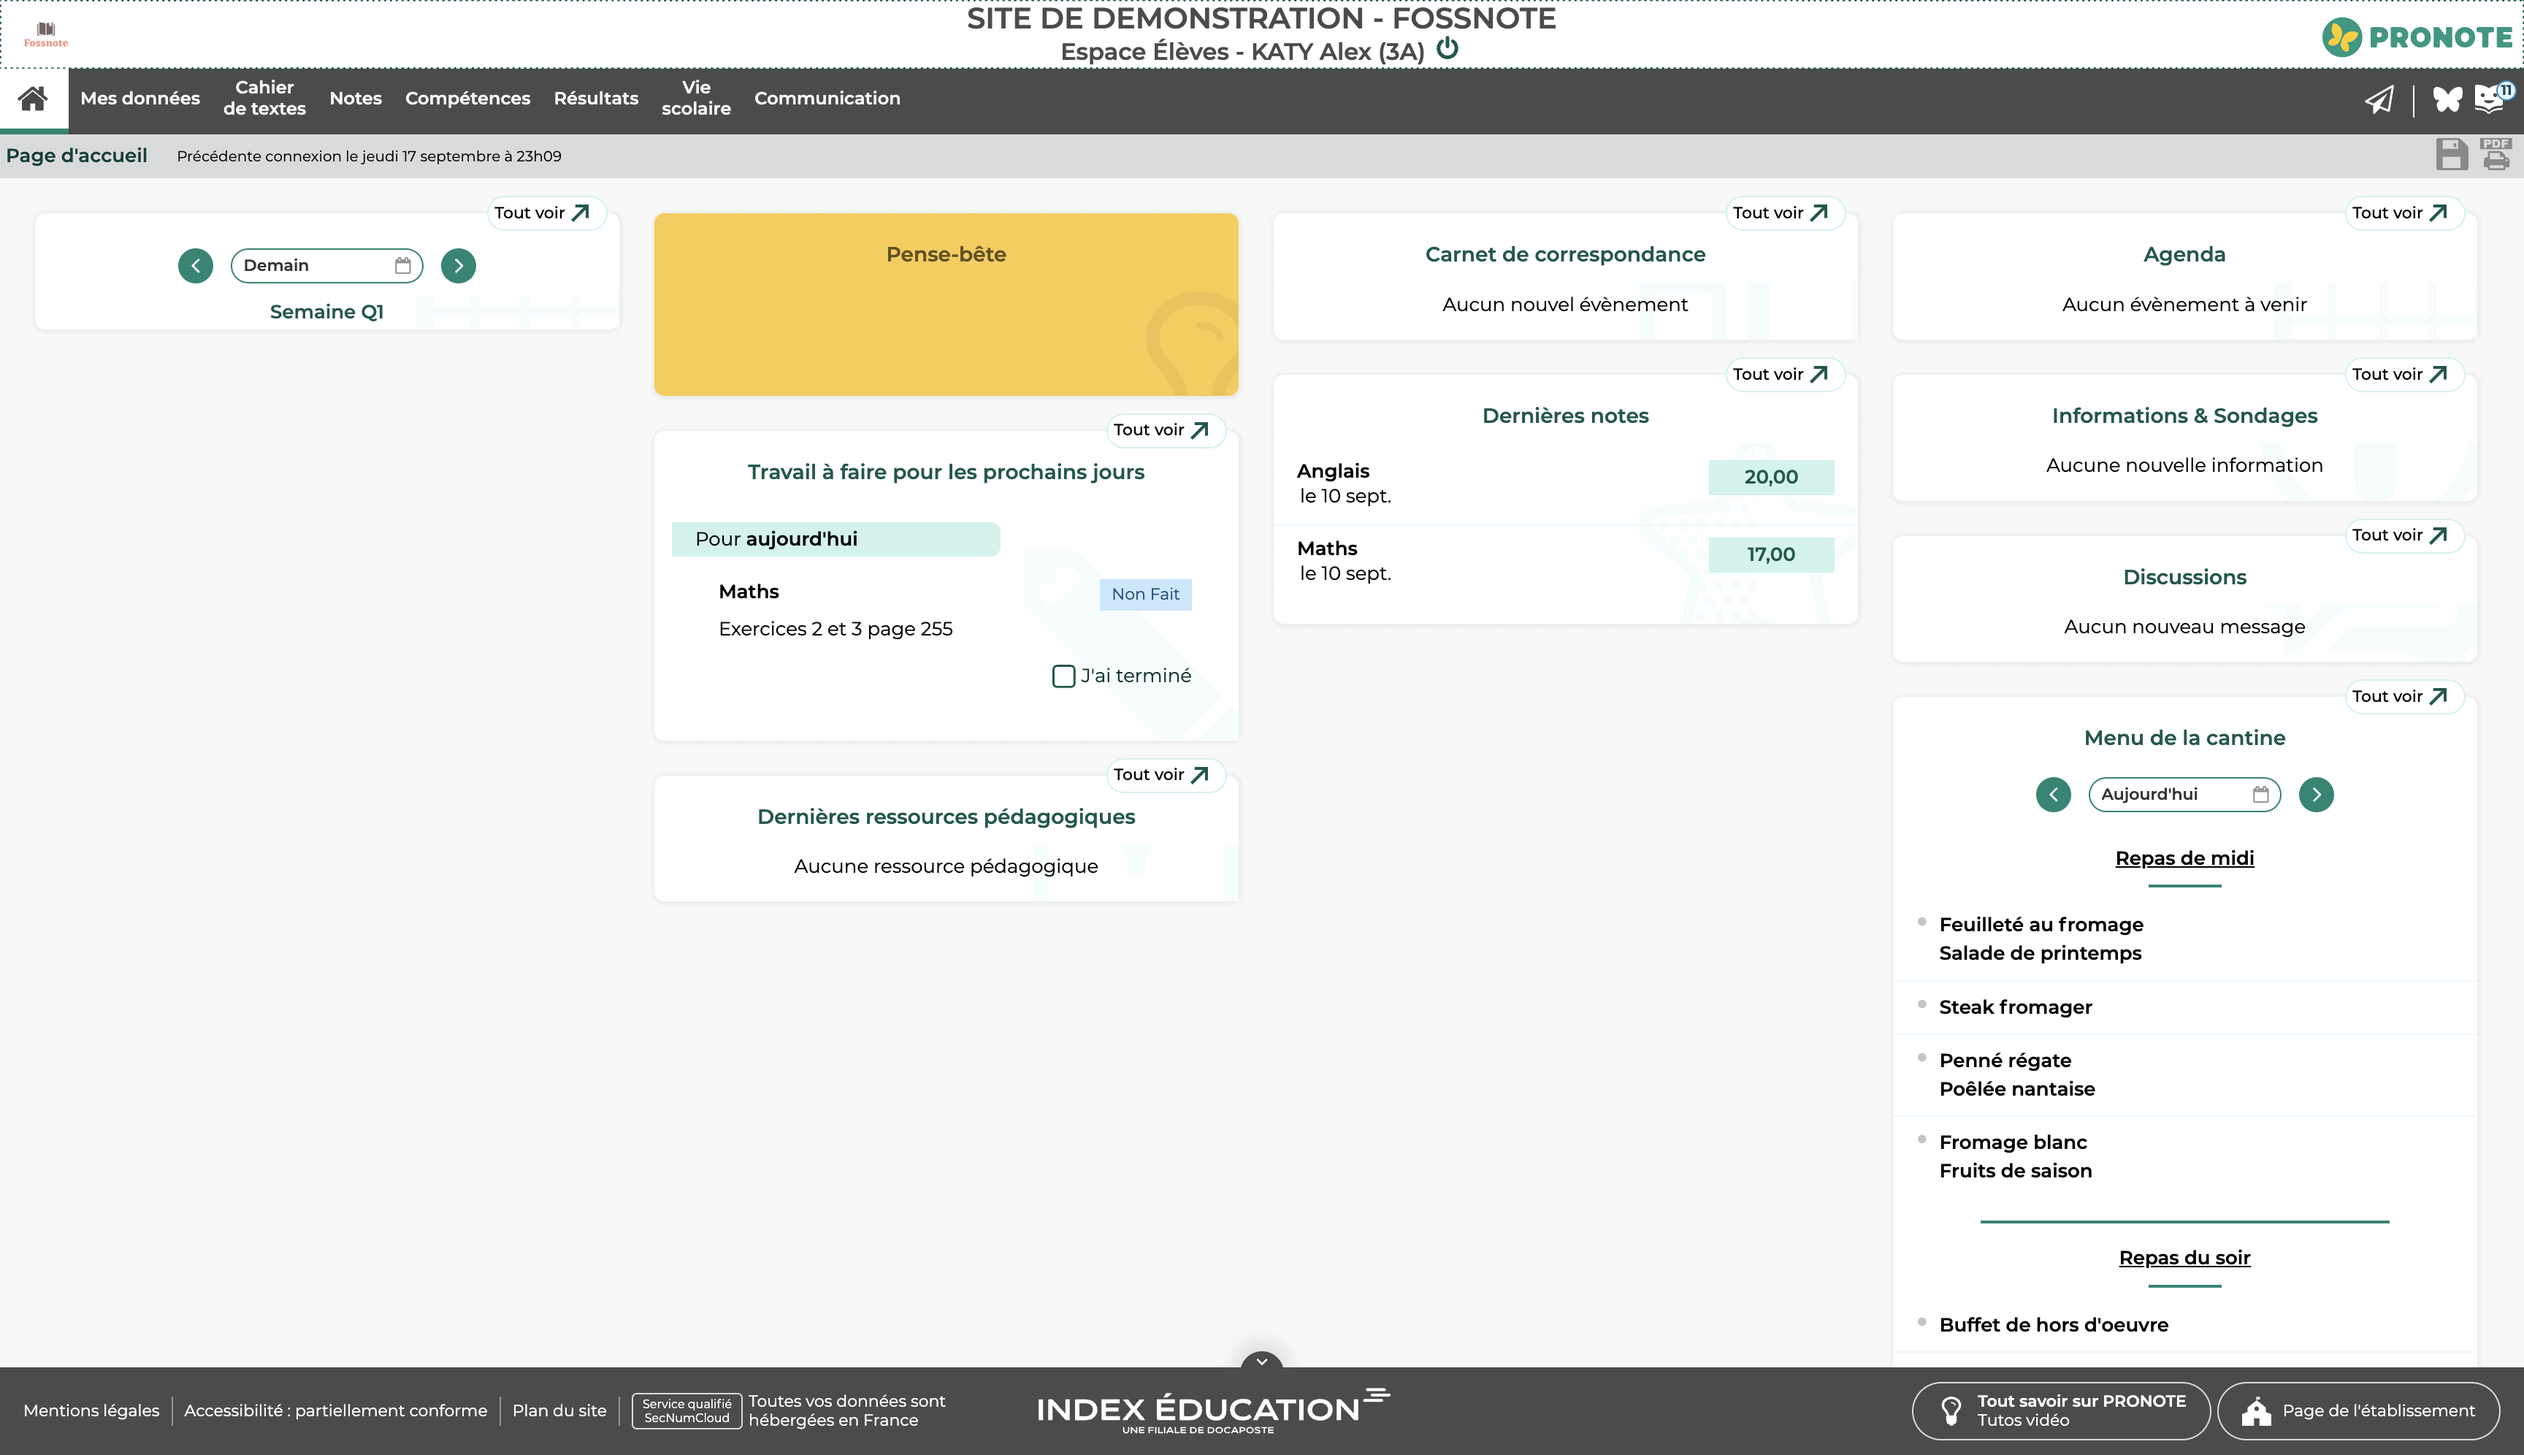
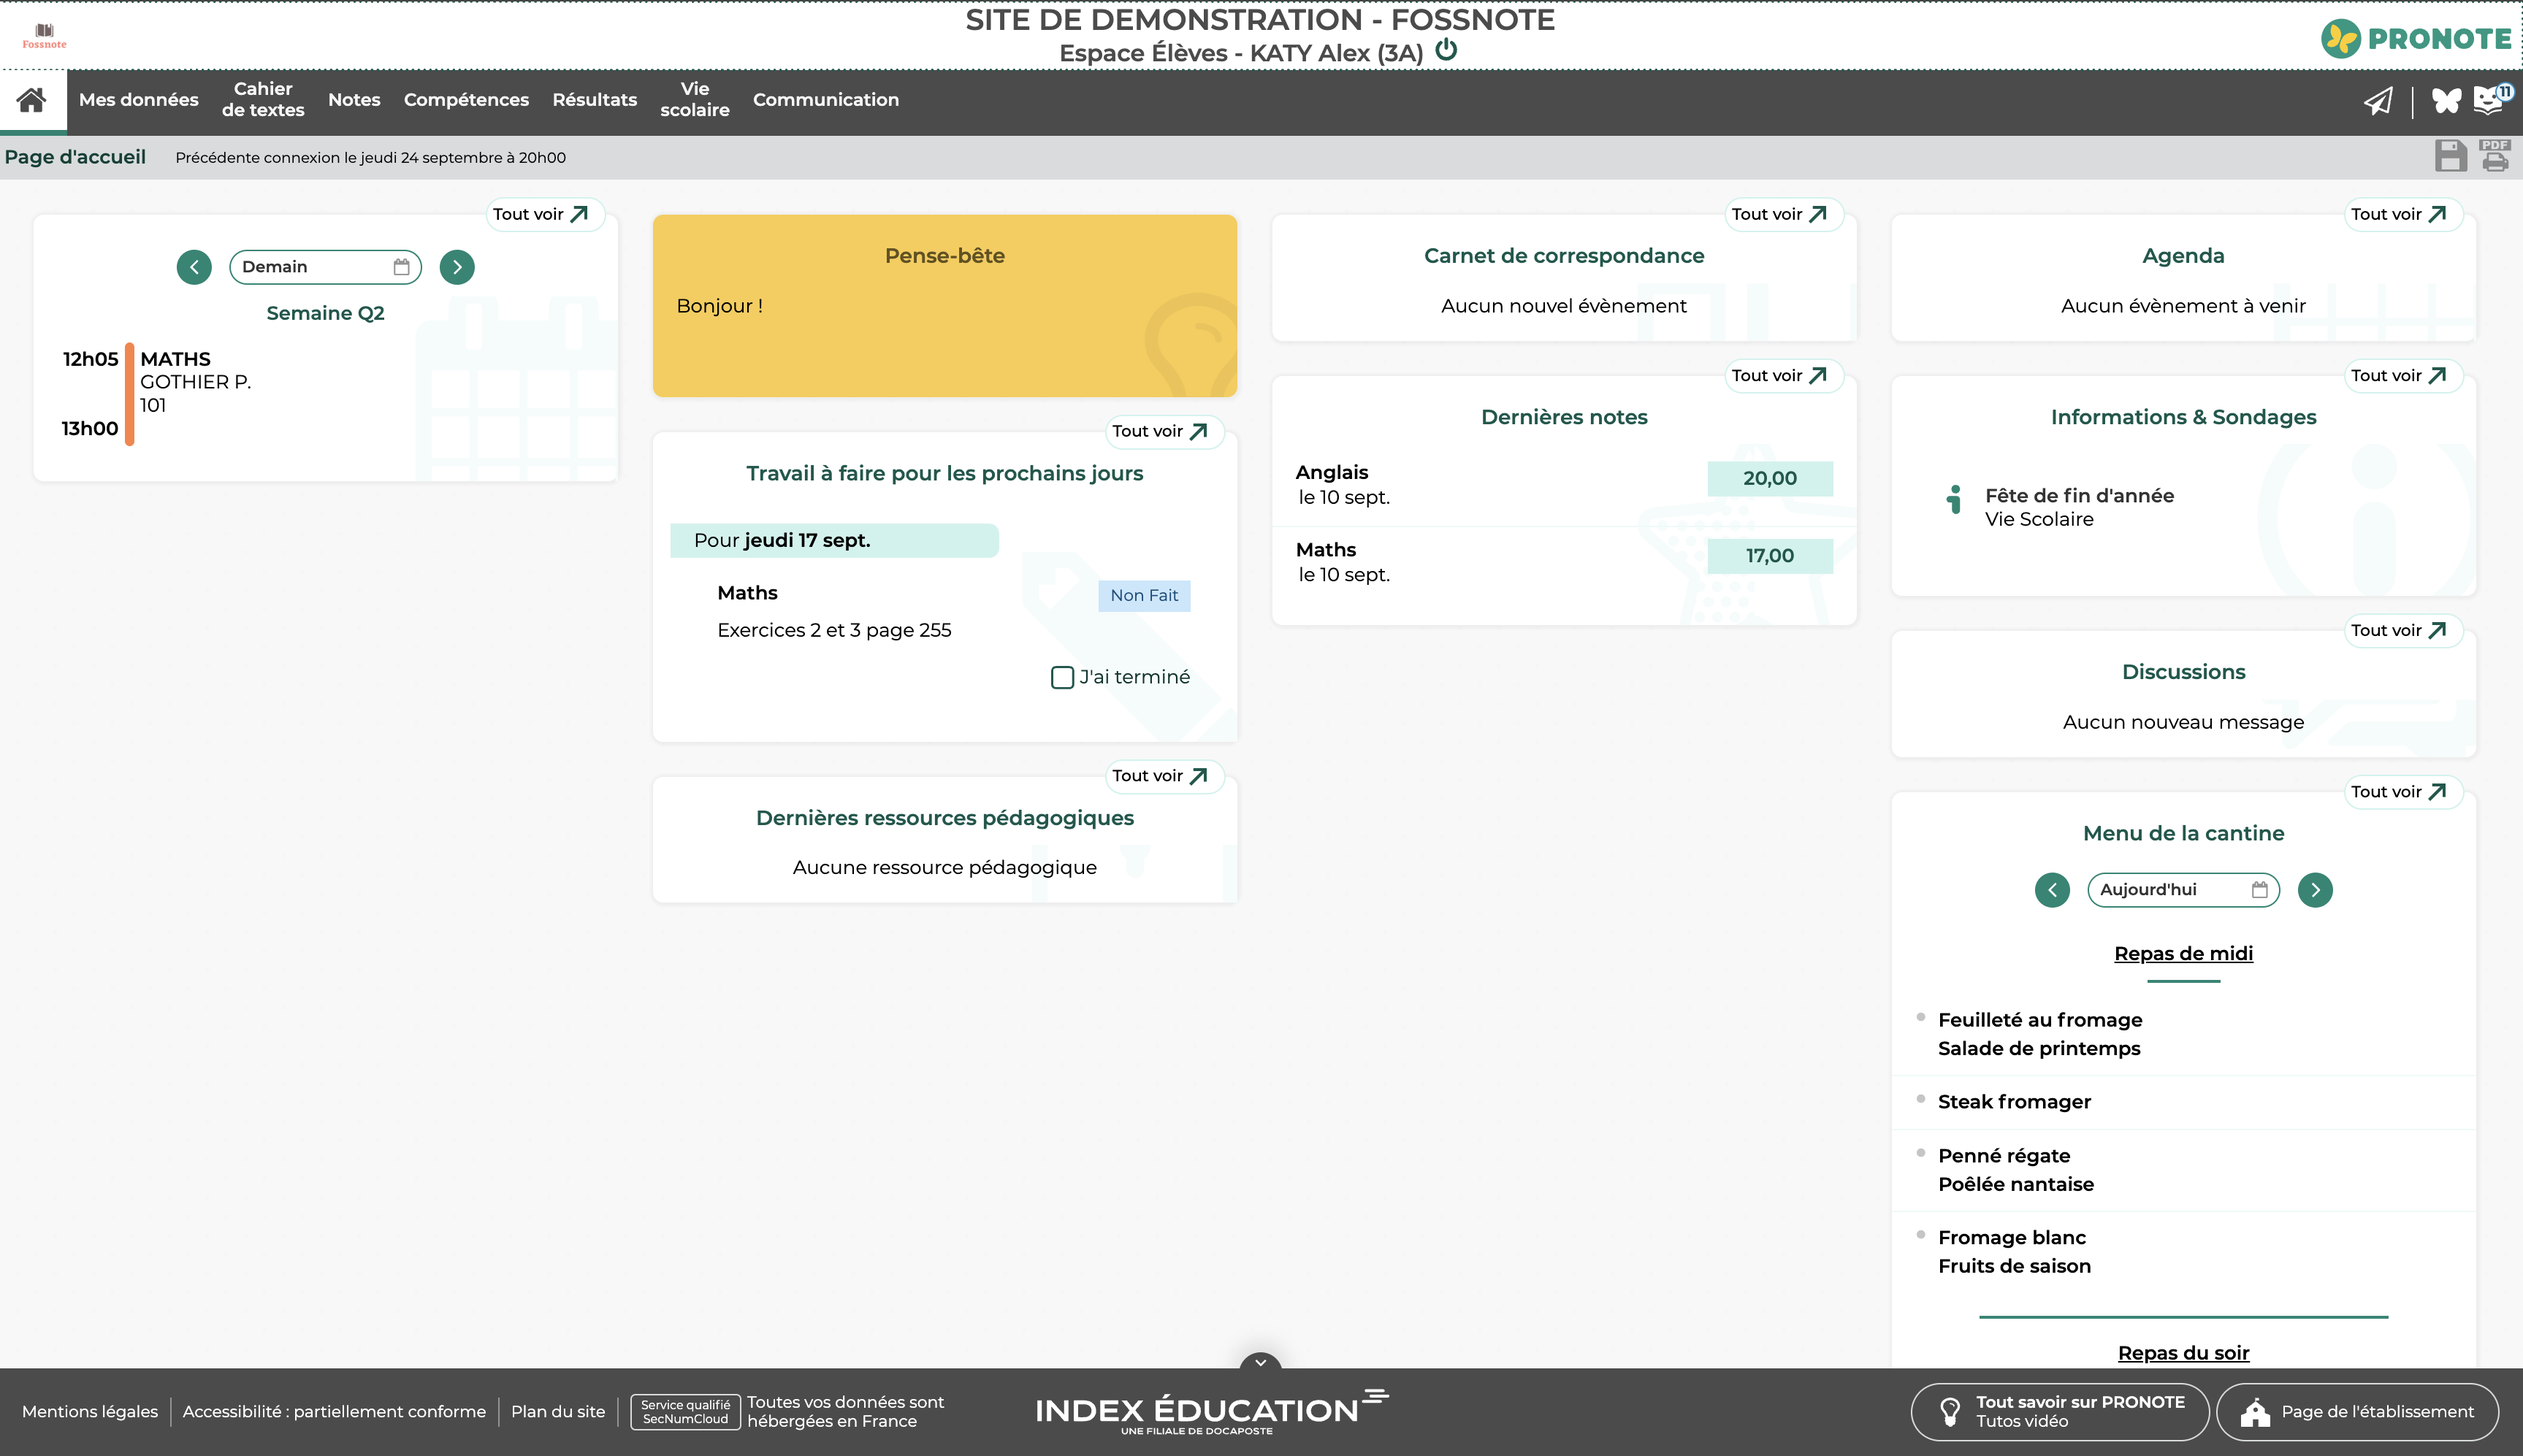
feat: news on homepage fix: update readme screenshots & features

diff --git a/src/rpc/fonctions/news.ts b/src/rpc/fonctions/news.ts
@@ -4,78 +4,82 @@ import { eq, desc } from "drizzle-orm";
 import type { RpcContext } from "../types";
 import newsTypes from "../../../config/constants/newsTypes.json";
 
+export const getNewsList = async (espaceId: number) => {
+    const allNews = await db.query.news.findMany({
+        where: (news, { or, eq, isNull }) => or(
+            isNull(news.targetUserType),
+            eq(news.targetUserType, espaceId)
+        ),
+        orderBy: [desc(news.createdAt)],
+    });
+
+    return allNews.map((n) => {
+        const categoryObj = (newsTypes as any[]).find(c => c.L === n.category) || newsTypes[3];
+        
+        // Format dates
+        const startDate = n.startDate ? n.startDate.split("-").reverse().join("/") : "01/01/2020";
+        const endDate = n.endDate ? n.endDate.split("-").reverse().join("/") : "31/12/2099";
+        
+        // Basic formatting for creation date
+        const d = new Date(n.createdAt);
+        const dateCreation = `${d.getDate().toString().padStart(2, '0')}/${(d.getMonth() + 1).toString().padStart(2, '0')}/${d.getFullYear()} ${d.getHours().toString().padStart(2, '0')}:${d.getMinutes().toString().padStart(2, '0')}:${d.getSeconds().toString().padStart(2, '0')}`;
+
+        return {
+            L: n.title,
+            N: `65#${n.id}`,
+            reponseAnonyme: false,
+            estInformation: n.isInformation,
+            estSondage: n.isSurvey,
+            nature: {
+                _T: 24,
+                V: {
+                    L: categoryObj?.L,
+                    N: categoryObj?.N,
+                },
+            },
+            lue: false, // Could track read status in a separate table later
+            dateDebut: { _T: 7, V: startDate },
+            dateFin: { _T: 7, V: endDate },
+            estProlonge: false, // Fake it
+            dateCreation: { _T: 7, V: dateCreation },
+            auteur: n.author || "Administration",
+            estAuteur: false,
+            elmauteur: {
+                _T: 24,
+                V: {
+                    L: n.author || "Administration",
+                    N: "106#admin",
+                    G: 34,
+                },
+            },
+            prenom: n.author ? n.author.split(' ')[0] : "Admin",
+            public: {
+                _T: 24,
+                V: {
+                    L: n.targetUserType === 1 ? "Professeurs" : n.targetUserType === 3 ? "Elèves" : "Tout le monde",
+                    N: "46#public",
+                    G: n.targetUserType ?? 4,
+                },
+            },
+            genrePublic: n.targetUserType ?? 4,
+            estPublic: true,
+            estPartage: false,
+            informationListeContenu: {
+                avecPJ: n.hasAttachments,
+                aToutRepondu: false,
+                avecCommandeVisuResultat: n.isSurvey,
+            },
+        };
+    });
+};
+
 export const handleNewsPage = async (body: any, ctx: RpcContext) => {
     const data = body?.donneesSec?.donnees || body?.dataSec?.data;
     const genre = data?.genreRequeteActualite;
 
     if (genre === 0) {
         // Return list of news
-        const allNews = await db.query.news.findMany({
-            where: (news, { or, eq, isNull }) => or(
-                isNull(news.targetUserType),
-                eq(news.targetUserType, ctx.espaceId)
-            ),
-            orderBy: [desc(news.createdAt)],
-        });
-
-        const listeActualites = allNews.map((n) => {
-            const categoryObj = (newsTypes as any[]).find(c => c.L === n.category) || newsTypes[3];
-            
-            // Format dates
-            const startDate = n.startDate ? n.startDate.split("-").reverse().join("/") : "01/01/2020";
-            const endDate = n.endDate ? n.endDate.split("-").reverse().join("/") : "31/12/2099";
-            
-            // Basic formatting for creation date
-            const d = new Date(n.createdAt);
-            const dateCreation = `${d.getDate().toString().padStart(2, '0')}/${(d.getMonth() + 1).toString().padStart(2, '0')}/${d.getFullYear()} ${d.getHours().toString().padStart(2, '0')}:${d.getMinutes().toString().padStart(2, '0')}:${d.getSeconds().toString().padStart(2, '0')}`;
-
-            return {
-                L: n.title,
-                N: `65#${n.id}`,
-                reponseAnonyme: false,
-                estInformation: n.isInformation,
-                estSondage: n.isSurvey,
-                nature: {
-                    _T: 24,
-                    V: {
-                        L: categoryObj?.L,
-                        N: categoryObj?.N,
-                    },
-                },
-                lue: false, // Could track read status in a separate table later
-                dateDebut: { _T: 7, V: startDate },
-                dateFin: { _T: 7, V: endDate },
-                estProlonge: false,
-                dateCreation: { _T: 7, V: dateCreation },
-                auteur: n.author || "Administration",
-                estAuteur: false,
-                elmauteur: {
-                    _T: 24,
-                    V: {
-                        L: n.author || "Administration",
-                        N: "106#admin",
-                        G: 34,
-                    },
-                },
-                prenom: n.author ? n.author.split(' ')[0] : "Admin",
-                public: {
-                    _T: 24,
-                    V: {
-                        L: n.targetUserType === 1 ? "Professeurs" : n.targetUserType === 3 ? "Elèves" : "Tout le monde",
-                        N: "46#public",
-                        G: n.targetUserType ?? 4,
-                    },
-                },
-                genrePublic: n.targetUserType ?? 4,
-                estPublic: true,
-                estPartage: false,
-                informationListeContenu: {
-                    avecPJ: n.hasAttachments,
-                    aToutRepondu: false,
-                    avecCommandeVisuResultat: n.isSurvey, // Only show results button if it's a survey
-                },
-            };
-        });
+        const listeActualites = await getNewsList(ctx.espaceId);
 
         return {
             listeNatures: {

diff --git a/src/rpc/fonctions/student/homepage.ts b/src/rpc/fonctions/student/homepage.ts
@@ -3,6 +3,7 @@ import { students, grades, evaluations, subjects, homeworks, postits, lessons, r
 import { eq, desc, and } from "drizzle-orm";
 import type { RpcContext } from "../../types";
 import { getCurrentPeriodKey, toPronoteDateFormat } from "../../../helpers/date";
+import { getNewsList } from "../news";
 
 import metadata from "../../../../config/metadata.json";
 import staticHomepageData from "../../../../config/constants/student/homepage.json";
@@ -313,6 +314,29 @@ export const handleStudentHomepage = async (_body: any, ctx: RpcContext) => {
             V: formatPronoteDate(selectedDate),
         },
         ...staticHomepageData,
+        actualites: {
+            listeModesAff: [
+                {
+                    G: 0,
+                    listeActualites: {
+                        _T: 24,
+                        V: await getNewsList(ctx.espaceId),
+                    }
+                },
+                {
+                    G: 1,
+                    listeActualites: { _T: 24, V: [] }
+                },
+                {
+                    G: 2,
+                    listeActualites: { _T: 24, V: [] }
+                },
+                {
+                    G: 3,
+                    listeActualites: { _T: 24, V: [] }
+                }
+            ]
+        },
         ListeCours: listeCours,
     };
 };

diff --git a/src/rpc/fonctions/teacher/homepage.ts b/src/rpc/fonctions/teacher/homepage.ts
@@ -12,6 +12,7 @@ import {
 import { eq, and, sql } from "drizzle-orm";
 import type { RpcContext } from "../../types";
 import { getCurrentPeriodKey, toPronoteDateFormat } from "../../../helpers/date";
+import { getNewsList } from "../news";
 
 import metadata from "../../../../config/metadata.json";
 import staticHomepageData from "../../../../config/constants/teacher/homepage.json";
@@ -189,5 +190,16 @@ export const handleTeacherHomepage = async (_body: any, ctx: RpcContext) => {
         },
         ListeCours: [],
         ...staticHomepageData,
+        actualites: {
+            listeModesAff: [
+                {
+                    G: 0,
+                    listeActualites: {
+                        _T: 24,
+                        V: await getNewsList(ctx.espaceId),
+                    }
+                }
+            ]
+        }
     };
 };

diff --git a/README.md b/README.md
@@ -13,11 +13,11 @@ L'application est divisée entre des interfaces web (front-end) et une API émul
 
 ### Espaces Web (Front-end)
 - **Portail d'index** : Page de sélection des différents espaces (`/fossnote/`).
-- **Espace Élèves** : Panel de connexion implémenté avec accès à la page d'accueil, aux informations personnelles, aux notes et au cahier de textes (`/fossnote/eleve.html`).
+- **Espace Élèves** : Panel de connexion implémenté avec accès à la page d'accueil, aux informations personnelles, aux notes, au cahier de textes, à l'emploi du temps (avec le détail des cours) et aux actualités (`/fossnote/eleve.html`).
   
   ![Accueil Élève](docs/student-homepage.png)
   
-- **Espace Professeurs** : Panel de connexion implémenté avec accès à la page d'accueil (`/fossnote/professeur.html`).
+- **Espace Professeurs** : Panel de connexion implémenté avec accès à la page d'accueil et aux actualités (`/fossnote/professeur.html`).
 
   ![Accueil Professeur](docs/teacher-homepage.png)
 
@@ -30,8 +30,8 @@ Fossnote implémente le système de communication de PRONOTE :
   - Résolution du défi d'authentification (génération et vérification de `alea` et `challenge`).
   - Stockage des sessions via SQLite (`database.db`).
 - **Requêtes système partagées** : Prise en charge de `FonctionParametres`, `Identification`, `Authentification` et `ParametresUtilisateur`.
-- **Méthodes Espace Élèves** : Prise en charge de `PageAccueil`, `DernieresNotes`, `PageInfosPerso` et `PageCahierDeTexte`.
-- **Méthodes Espace Professeurs** : Prise en charge de `PageAccueil`, `listeClassesGroupes`, `ListePeriodes` et `ListeRessources`.
+- **Méthodes Espace Élèves** : Prise en charge de `PageAccueil`, `DernieresNotes`, `PageInfosPerso`, `PageCahierDeTexte`, `PageEmploiDuTemps`, `FicheCours` et `PageActualites`.
+- **Méthodes Espace Professeurs** : Prise en charge de `PageAccueil`, `listeClassesGroupes`, `ListePeriodes`, `ListeRessources` et `PageActualites`.
 - **Méthodes générales** : Gestion basique de la `Navigation` et de la `Presence` pour le maintien de session.
 
 ---
@@ -52,7 +52,7 @@ Fossnote utilise **[Bun](https://bun.sh/)** comme environnement d'exécution, of
    ```
 
 3. **Initialiser la base de données :**
-   Cette étape crée les tables requises et injecte les données de test.
+   Cette étape crée les tables requises et injecte un jeu de données de test complet (élèves, professeurs, notes, devoirs, actualités, et un emploi du temps généré dynamiquement sur toute l'année scolaire).
    ```bash
    bun run db:push
    bun run db:seed
